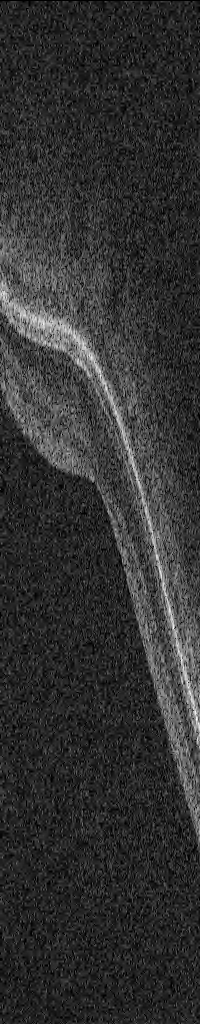
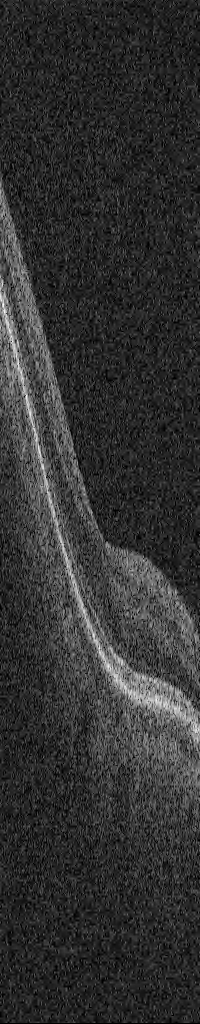
verify Ray's mhd format

diff --git a/OCTSegTool/thinRetina/readMhd_ShowBscan_RayFormat.py b/OCTSegTool/thinRetina/readMhd_ShowBscan_RayFormat.py
@@ -19,12 +19,10 @@ def readMhd(mhdPath, indexBscan):
     outputPath = os.path.join(outputDir, fileName)
 
     itkImage = sitk.ReadImage(mhdPath)
-    npImage = sitk.GetArrayFromImage(itkImage)
+    npImage = sitk.GetArrayFromImage(itkImage) # in BxHxW dimension
 
-    # change Ray format to SHW format
-    # npImage = np.swapaxes(npImage,0,2)  # now it is BHW
-    # npImage = npImage[:,::-1,::-1]  # flip H and W
-
+    # Ray mhd format in BxHxW dimension, but it flip the H and W dimension.
+    npImage = np.flip(npImage, (1,2)) # as ray's format filp H and W dimension.
 
     S,H,W = npImage.shape
     print("\nVolume Information:")
